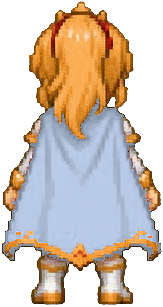
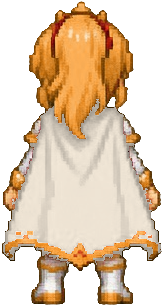
feat: 披風改成貼齊立繪的暖象牙白，並產出小公主的 Grok prompt 包
冷銀白實際看偏灰、跟立繪的白披風對不上，改成直接取樣封面披風的色值
（H 0.098 / S 0.115 / V 0.46~0.98）。跟鎧甲的分離改由金色滾邊和陰影負責，
立繪本來就是這樣處理的。

另外量到立繪與 sprite 其實是兩套衣服：sprite 有圓形肩甲和胸口藍寶石，
舊封面兩者都沒有。定案以 sprite 為準（她的主題是騎士，肩甲和胸口寶石
是騎士感的來源），所以要重產的是封面。

新增 assets/character/PROMPTS_KNIGHT.md：小公主的完整可複製 prompt 包，
四張綠幕動作圖 + 兩張新封面，附服裝差異對照與優先順序。
新增 assets/character/knight/REFERENCE.png：四視角 3 倍放大的定裝參考圖，
每次產圖都附這張。

走路的問題也量出來了：walk1 與 walk2 的腳距都是 124 px，是同一個步態相位，
缺少雙腳交會的那一格，所以看起來像在地上滑。Sheet A 的四格循環會解決。

Claude-Session: https://claude.ai/code/session_015KdV9rzzxhngxWRbvtQ9iL

diff --git a/assets/character/PROMPTS_KNIGHT.md b/assets/character/PROMPTS_KNIGHT.md
@@ -1,0 +1,235 @@
+# 小公主 · Grok Prompt 包（可直接複製）
+
+**每一張都要附上參考圖** [`knight/REFERENCE.png`](knight/REFERENCE.png)
+（正面／斜前／側面／背面，已經是定案的服裝與白披風）。
+
+順序建議：**A → B → C → D → 立繪**。A 是最急的，走路的問題就是它。
+
+---
+
+## 0. 服裝定案：以遊戲 sprite 為準
+
+現有封面跟 sprite 其實是**兩套不同的衣服**：
+
+| 部位 | 舊封面立繪 | 遊戲 sprite | 定案 |
+|---|---|---|---|
+| **肩甲** | 沒有（布質泡泡袖） | **有，圓形白金肩甲** | ✅ **有肩甲** |
+| **胸口寶石** | 沒有 | **有，金框藍寶石** | ✅ **有** |
+| 腰帶 | 兩顆藍寶石嵌在腰帶上 | 圓形金扣，中央一顆藍寶石 | ✅ 圓形金扣 |
+| 袖子 | 長袖 + 手套到手肘 | 短泡泡袖 + 白手套 | ✅ 短袖 |
+| 裙子 | 長版，金色藤蔓刺繡 | 短裙 + 金色 V 字滾邊 | ✅ 短裙 |
+| 披風 | 白（金藤蔓） | 已改成白 | ✅ 白 + 金邊 |
+| 髮飾緞帶 | 紅 | 紅 | ✅ 紅 |
+
+理由：她的主題是**騎士**，肩甲和胸口寶石是騎士感的來源；而且 sprite 是玩家看最久的東西。
+所以要重產的是**立繪**，不是動作圖。
+
+---
+
+## 1. 共用段落（每張都貼在最前面）
+
+### 風格段
+
+```
+Chibi pixel-art game sprite, 2.5-heads-tall proportions, clean thick outlines,
+rich shading with a limited palette — the look of a high-resolution SNES/PS1
+JRPG character sprite. Crisp pixels, no anti-aliased blur, no painterly rendering.
+Same character, same outfit, same colors and the same scale as the attached
+reference image.
+```
+
+### 角色設定段
+
+```
+Character: a young princess-knight girl, cheerful and a bit reckless.
+- Hair: golden-blonde, HIGH PONYTAIL tied with a RED ribbon (keep the ribbon
+  RED), short fringe, two short side locks
+- Eyes: large BLUE eyes
+- Head: small GOLD tiara with a BLUE gem
+- Shoulders: rounded WHITE-and-GOLD armored pauldrons on both shoulders
+- Chest: a BLUE GEM in a gold setting at the collar of her white breastplate
+- Body: WHITE dress-armor with GOLD trim, SHORT puffed sleeves, white gloves
+- Belt: a round GOLD buckle with a BLUE gem in the centre
+- Skirt: SHORT white layered skirt with a gold V-shaped hem trim
+- Legs: WHITE thigh-high stockings, WHITE-and-GOLD armored boots
+- Cape: a WHITE cape with a GOLD edge, hanging from both shoulders.
+  Warm ivory white, shaded so it reads as a separate layer over the armor.
+- Weapon: a straight one-handed longsword — pale blue steel blade,
+  GOLD cross-guard, blue grip
+```
+
+### 技術要求段
+
+```
+TECHNICAL REQUIREMENTS — follow these exactly:
+- Background: PURE GREEN (#00FF00), completely flat. No gradient, no shadow,
+  no ground line, no floor, no vignette.
+- Layout: ONE horizontal row of poses, evenly spaced, left to right,
+  in the exact order listed below.
+- Leave a WIDE, CLEARLY VISIBLE GREEN GAP between every pair of figures.
+  Nothing may cross into a neighbour's space — not the cape, not the sword tip,
+  not a strand of hair. This is the single most important rule.
+- All figures at EXACTLY the same scale, same head size, same body proportions.
+- All figures FACING RIGHT (the viewer's right), strict side view.
+- Every figure standing on the ground shares the same horizontal foot line.
+- Identical outfit, colors and accessories in every pose.
+- No text, no labels, no numbers, no panel borders, no grid lines.
+- No motion blur, no speed lines, no glow, no sparks, no particles,
+  no slash effects — effects are added by the game engine.
+```
+
+---
+
+## 2. Sheet A — 跑步循環（5 格）⭐ 最優先
+
+> 現在的「走路」只有兩格，而且**兩格的腳距都是 124 px**——同一個步態相位，
+> 沒有雙腳交會的那一格，所以看起來像在地上滑。這張就是解方。
+
+```
+Poses, left to right:
+
+1. IDLE — standing at rest, weight on both feet, sword lowered at her side,
+   calm face. This pose is the size reference for the whole sheet.
+
+2. RUN CONTACT A — running: her RIGHT leg is forward with the heel just
+   striking the ground, left leg extended far behind, torso leaning forward,
+   arms swinging in opposition. Feet are FAR APART.
+
+3. RUN PASS A — running: BOTH FEET OFF THE GROUND, the rear leg swinging
+   through directly underneath her body so the legs are CLOSE TOGETHER,
+   body at the HIGHEST point of the stride.
+
+4. RUN CONTACT B — running: her LEFT leg is forward with the heel just
+   striking the ground, right leg extended far behind. Feet FAR APART,
+   the opposite arm swing to pose 2.
+
+5. RUN PASS B — running: BOTH FEET OFF THE GROUND again, legs CLOSE TOGETHER
+   under the body, the opposite arm swing to pose 3.
+
+The two PASS poses must be clearly different from the two CONTACT poses:
+in CONTACT the feet are far apart and the body is LOW, in PASS the legs are
+together and the body is HIGH. That contrast is what makes the run read.
+```
+
+---
+
+## 3. Sheet B — 空中與落地（5 格）
+
+```
+Poses, left to right:
+
+1. IDLE — the exact same standing pose as sheet A pose 1 (size reference).
+2. JUMP — just after take-off, rising: both knees pulled up toward the chest,
+   arms up, cape streaming downward.
+3. APEX — the top of the jump: body upright, legs slightly apart and relaxed,
+   cape spread out around her.
+4. FALL — descending: legs reaching down toward the ground, arms slightly out
+   for balance, cape and hair streaming upward.
+5. LAND — the instant of landing: deep knee bend, free hand near the ground,
+   head low, cape settling downward.
+```
+
+---
+
+## 4. Sheet C — 三段連擊 前段（4 格）
+
+```
+Poses, left to right:
+
+1. IDLE — the exact same standing pose as sheet A pose 1 (size reference).
+2. WIND-UP — anticipation: sword raised high overhead and drawn back behind
+   her, body coiled, back foot planted, weight on the back leg.
+3. SLASH 1 — the first cut: a diagonal downward slash, the sword sweeping
+   down and forward, front foot stepping in.
+4. SLASH 2 — the second cut: a horizontal slash across the body from the
+   opposite side, torso rotated, ponytail and cape trailing the motion.
+```
+
+---
+
+## 5. Sheet D — 重斬與旋風斬（4 格）
+
+```
+Poses, left to right:
+
+1. IDLE — the exact same standing pose as sheet A pose 1 (size reference).
+2. SLASH 3 — the heavy finishing blow: a full-body lunging strike, the sword
+   driven far forward, front leg deep and bent, back leg fully extended,
+   her whole body committed to the blow.
+3. SPIN WIND-UP — crouched low, the sword drawn back across her body in both
+   hands, shoulders turned, about to spin.
+4. SPIN — mid-spin: the sword swept all the way around at waist height,
+   ponytail and cape whipped out horizontally by the rotation.
+```
+
+---
+
+## 6. 新立繪（直式封面 `cover.jpg`）
+
+**這張換掉現有的封面**，因為現有的沒有肩甲和胸口寶石。
+
+```
+[貼上「角色設定段」]
+
+Style: Japanese anime light-novel cover illustration, official key visual
+quality, crisp cel shading, vivid saturated colors, clean line art,
+highly detailed. NOT pixel art.
+The outfit must match the attached pixel-art reference exactly — the shoulder
+pauldrons, the blue gem at the collar, the round gold belt buckle, the short
+puffed sleeves and the short layered skirt are all required.
+
+Full-body heroic key visual: she stands proudly on a grassy hilltop at sunrise,
+her longsword planted point-down into the ground with both hands resting on the
+pommel, white cape billowing in the wind, chin slightly raised with a calm,
+dignified, confident expression. Behind her, a fantasy landscape of distant
+blue mountains and a white castle, dramatic golden rim lighting, cinematic
+light rays, floating glowing particles.
+
+Composition: vertical 3:4 portrait. The character fills the middle of the
+frame, her head near the upper third. Keep the bottom 30% of the image simple
+and mostly empty (just grass and sky) — UI will be placed there.
+
+No text, no letters, no logo, no watermark, no signature, no border frame.
+```
+
+## 7. 新立繪（橫式封面 `cover-wide.jpg`）
+
+```
+[貼上「角色設定段」]
+[附上剛產好的 cover.jpg，加一句：same character as the attached image]
+
+Style: Japanese anime light-novel cover illustration, official key visual
+quality, crisp cel shading, vivid saturated colors, clean line art,
+highly detailed, dramatic golden rim lighting. NOT pixel art.
+
+Full-body heroic key visual, horizontal composition: she stands on the RIGHT
+third of the frame, resting her longsword on her shoulder, white cape sweeping
+to the side, looking toward the camera with a confident smile. The LEFT half
+of the image is an open fantasy landscape — sunrise sky, distant mountains,
+a castle silhouette — kept simple and uncluttered.
+
+Composition: horizontal 16:9. Character on the right, empty sky and landscape
+on the left (that space is reserved for the title UI).
+
+No text, no letters, no logo, no watermark, no signature, no border frame.
+```
+
+---
+
+## 8. 額度還有剩的話
+
+依序：
+1. **半身立繪**（對話用，透明背景或純色背景，約 400 px 高，表情：普通／激動／哭）
+2. **開場 CG `knight/open-1.jpg`**（憧憬的回憶：**紅披風大劍的女騎士背影**，
+   規格見 [`../story/cutscenes.md`](../story/cutscenes.md)）
+3. 魔法大臣的 Sheet A
+
+---
+
+## 9. 產完給我，我會做
+
+1. 去背合併：`python3 tools/build_character.py knight`
+2. 驗證每一格沒有被切到
+3. 把跑步接成 4 格循環 + 加上身體上下浮動，落地緩衝接進狀態機
+4. 三段連擊拆成蓄力／命中，旋風斬換成專用的兩格
+5. 換掉封面

diff --git a/assets/PROMPTS.md b/assets/PROMPTS.md
@@ -43,9 +43,10 @@ eyelashes, light blush, fair skin, gentle dignified expression.
 She wears an elegant WHITE dress-armor with rich GOLD filigree trim: a white
 breastplate with a blue gem at the collar, white gloves, a gold-and-blue jeweled
 belt, a short white layered skirt with gold embroidery, white thigh-high stockings
-and white-and-gold armored boots. A flowing WHITE cape with a gold edge hangs
-from her shoulders — a cool silver-white, clearly cooler than the warm white
-of her armor, never pure white.
+and white-and-gold armored boots. Rounded white-and-gold armored PAULDRONS on
+both shoulders and a BLUE GEM in a gold setting at the collar. A flowing WHITE
+cape with a gold edge hangs from her shoulders — warm ivory white, shaded so it
+reads as a separate layer over the armor.
 
 She carries a European longsword with a deep-blue grip, an ornate gold cross-guard
 and a blue jewel set in the guard.
@@ -139,8 +140,12 @@ No text, no letters, no logo, no watermark, no signature.
 封面本來就畫成白色，所以封面不用動；反而是**遊戲 sprite 原本是紅的，已經改成冷銀白**
 （動作圖、轉身圖、結算插畫都改好了）。
 
-⚠ 白披風不能用純白——配上白金鎧甲會糊成一團（實測 ΔE 只有 17.6）。
-要用**冷銀白**：偏冷、偏灰，跟鎧甲的暖白分得開。上面的角色設定段已經寫進去了。
+白披風用**暖象牙白**，跟立繪一致；跟鎧甲的分離靠**金色滾邊**和陰影，不要靠改色相
+（試過冷銀白，會偏灰、跟立繪對不上）。上面的角色設定段已經寫進去了。
+
+另外**肩甲和胸口的藍寶石**在 sprite 上有、舊封面上沒有——定案是**有**，
+所以兩張封面要重產。可複製的 prompt 見
+[`character/PROMPTS_KNIGHT.md`](character/PROMPTS_KNIGHT.md)。
 
 紅緞帶維持紅色，那是兩姊妹的家族共通點。
 
